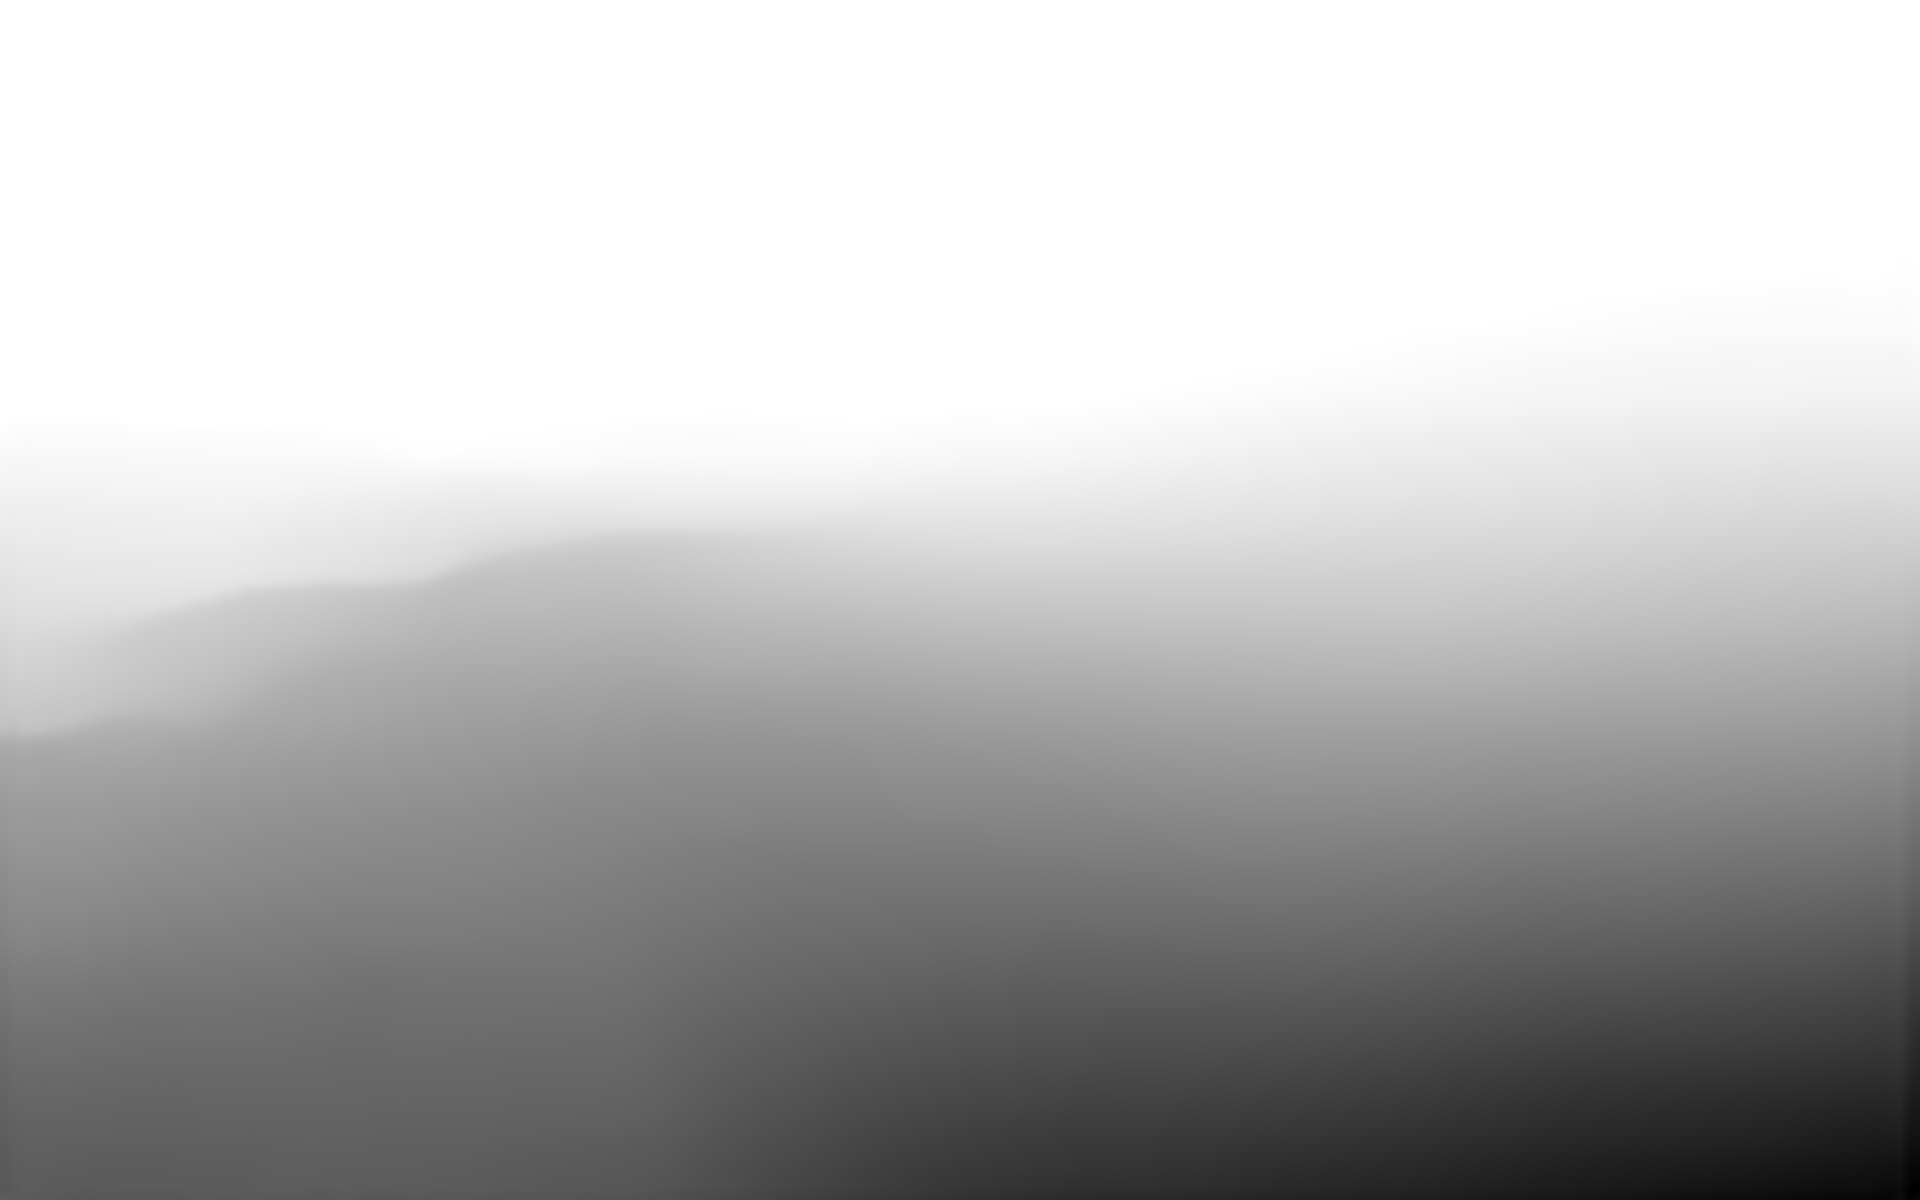
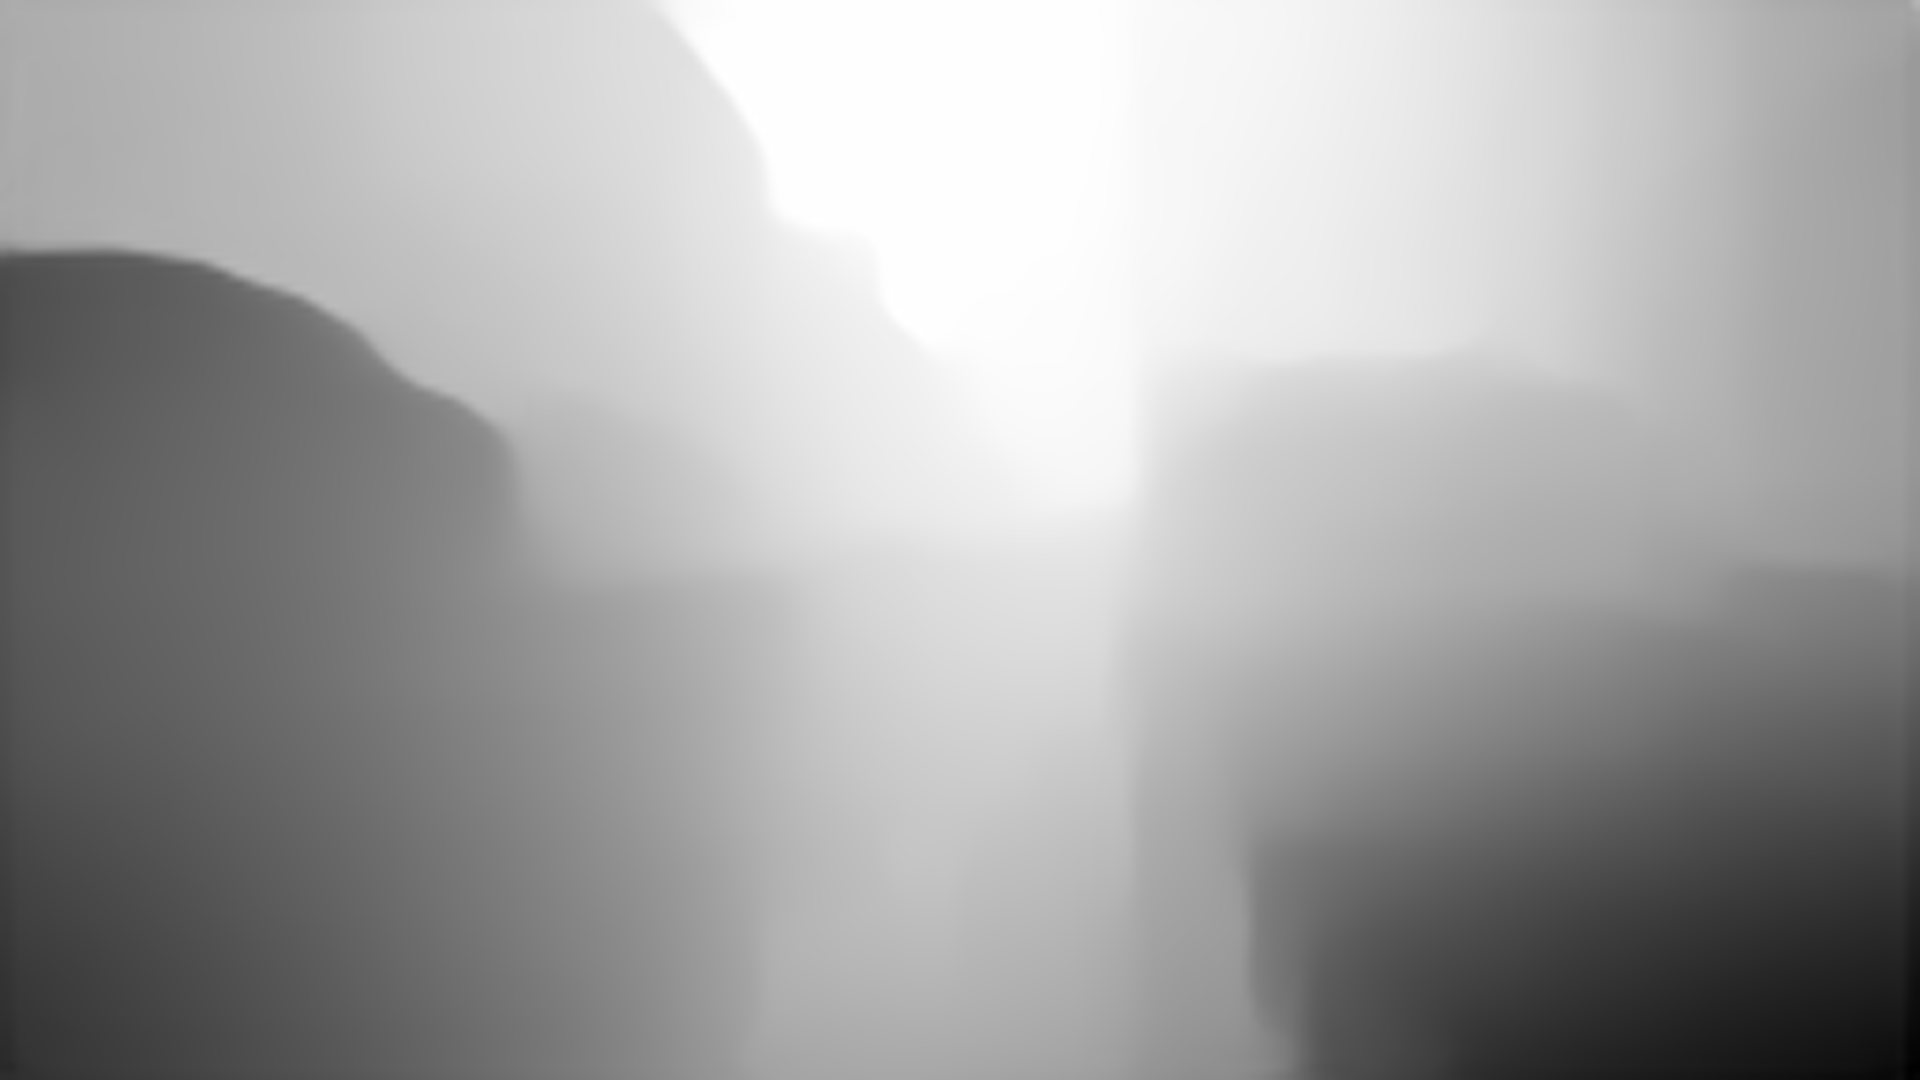
enhance script by adding comment of the method for better documentation and readability

diff --git a/backend/MiDaS/midas_script_depth.py b/backend/MiDaS/midas_script_depth.py
@@ -14,7 +14,7 @@ import os
 
 #download of MiDaS models - Image for the test
 midas= torch.hub.load('isl-org/MiDaS', 'MiDaS_small')
-filename = 'data/wallhaven-nme329.jpg'
+filename = 'data/wallhaven-l332jq.jpg'
 
 
 
@@ -30,6 +30,7 @@ transform = transforms.small_transform
 
 # ploting image of depth map
 def processing_orig_depth_image(image):
+    """This method receives an image selected by the user, and then return the image with its version depth."""
     # using an image for this test
     img = cv2.imread(image)
     img = cv2.cvtColor(img, cv2.COLOR_BGR2RGB)
@@ -71,6 +72,9 @@ def processing_orig_depth_image(image):
 
 # create a simple depth asset of given image
 def processing_image_depth(image):
+    """ This method receives an image and process it using the cv2 library. By applying normalization methods
+    it then return the new image as a depth using MiDaS module.
+    """
 
 
     script_dir = os.path.dirname(os.path.abspath(__file__))
@@ -142,39 +146,39 @@ processing_orig_depth_image(filename)
 # processing_image_depth(filename)
 
 # processing video depth function
-# def processing_video_depth():
+def processing_video_depth():
 
-#     # Hook into OpenCV
-#     cap = cv2.VideoCapture(0)
-#     while cap.isOpened():
-#         ret, frame = cap.read()
+    # Hook into OpenCV
+    cap = cv2.VideoCapture(0)
+    while cap.isOpened():
+        ret, frame = cap.read()
 
-#         # transform import from Midas
-#         img = cv2.cvtColor(frame, cv2.COLOR_BGR2RGB)
-#         imgbatch = transform(img).to(device)
+        # transform import from Midas
+        img = cv2.cvtColor(frame, cv2.COLOR_BGR2RGB)
+        imgbatch = transform(img).to(device)
 
-#         # making a prediction
-#         with torch.no_grad():
-#             prediction = midas(imgbatch)
-#             prediction = torch.nn.functional.interpolate(
-#                 prediction.unsqueeze(1),
-#                 size= img.shape[:2],
-#                 mode='bicubic',
-#                 align_corners=False
-#             ).squeeze()
+        # making a prediction
+        with torch.no_grad():
+            prediction = midas(imgbatch)
+            prediction = torch.nn.functional.interpolate(
+                prediction.unsqueeze(1),
+                size= img.shape[:2],
+                mode='bicubic',
+                align_corners=False
+            ).squeeze()
 
-#             output = prediction.cpu().numpy()
+            output = prediction.cpu().numpy()
             
-#             # print(prediction)
-#             # print(output)
+            # print(prediction)
+            # print(output)
             
-#         plt.imshow(output)
-#         cv2.imshow('CV2Frame',frame)
-#         plt.pause(0.00001)
+        plt.imshow(output)
+        cv2.imshow('CV2Frame',frame)
+        plt.pause(0.00001)
 
-#         if cv2.waitKey(10) & 0xFF ==ord('q'):
-#             cap.release()
-#             cv2.destroyAllWindows()
-#     plt.show()
+        if cv2.waitKey(10) & 0xFF ==ord('q'):
+            cap.release()
+            cv2.destroyAllWindows()
+    plt.show()
 
 # processing_video_depth()
